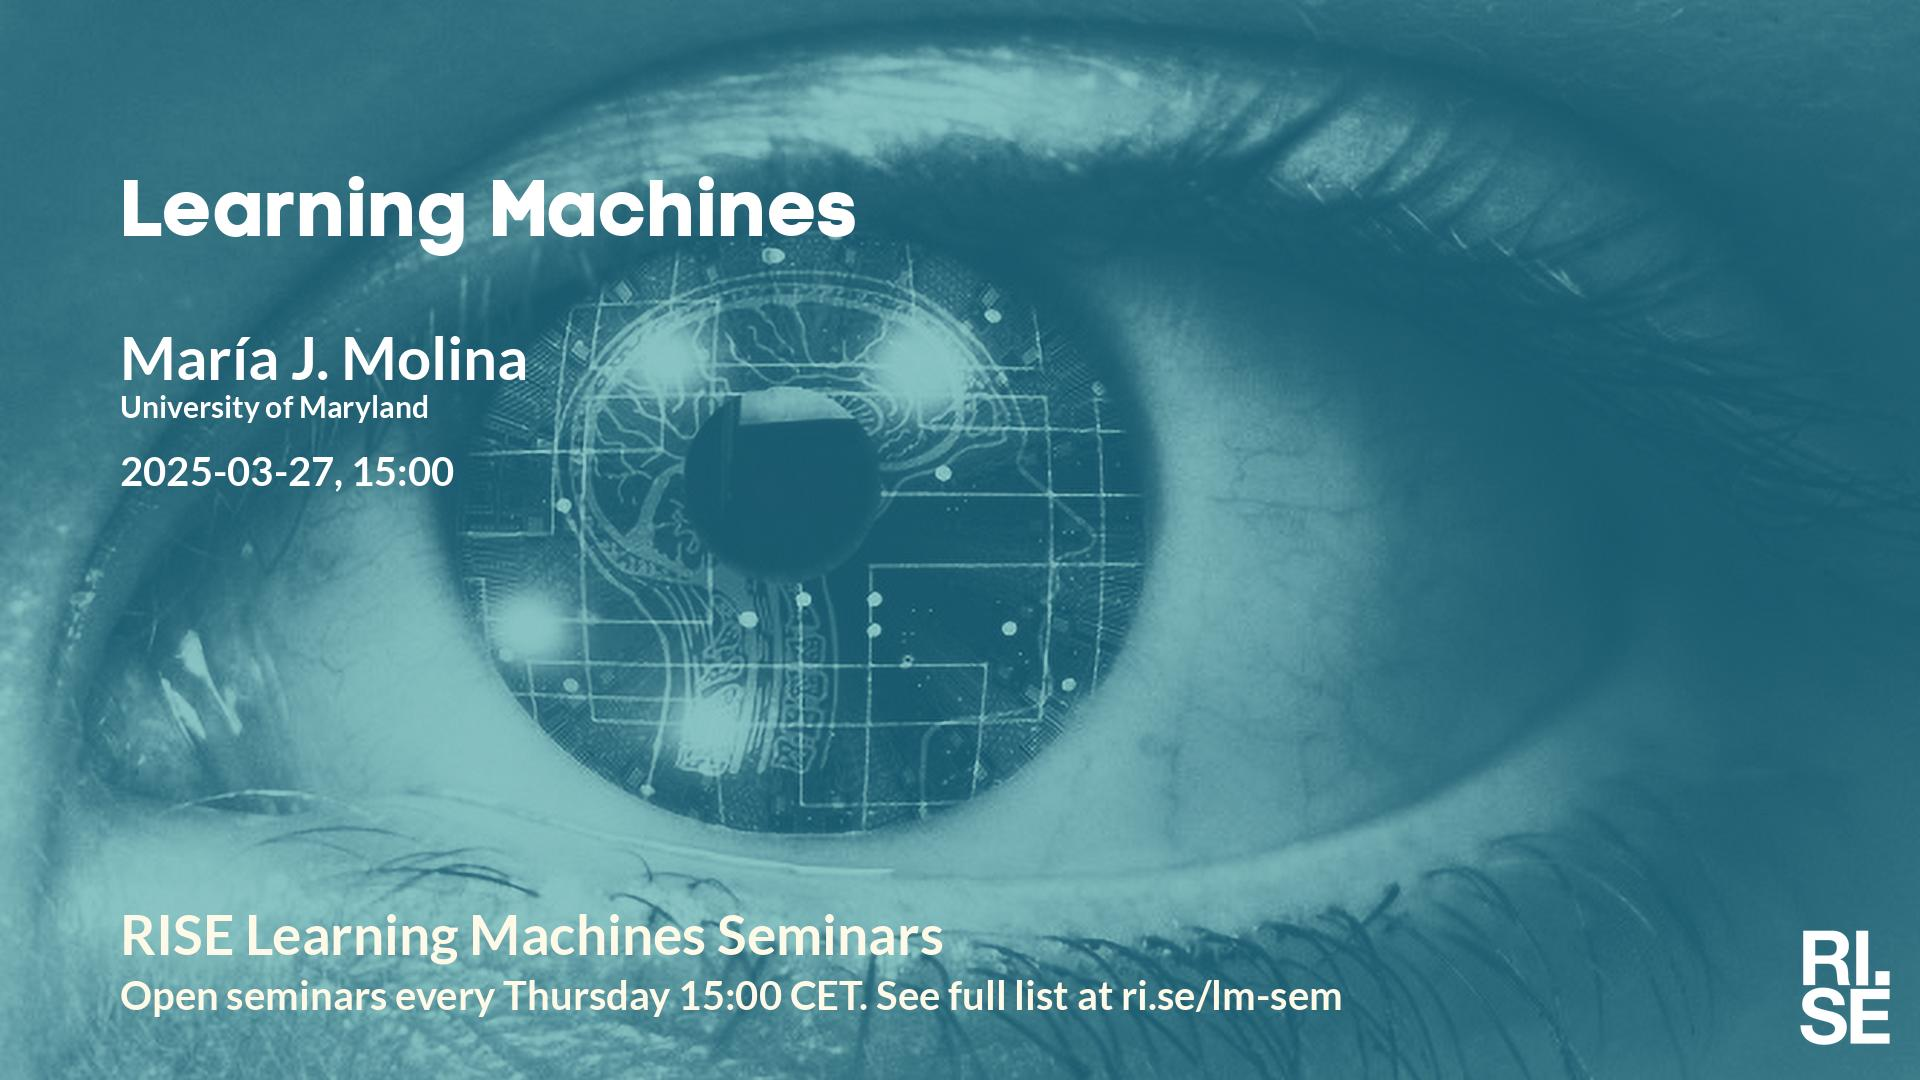
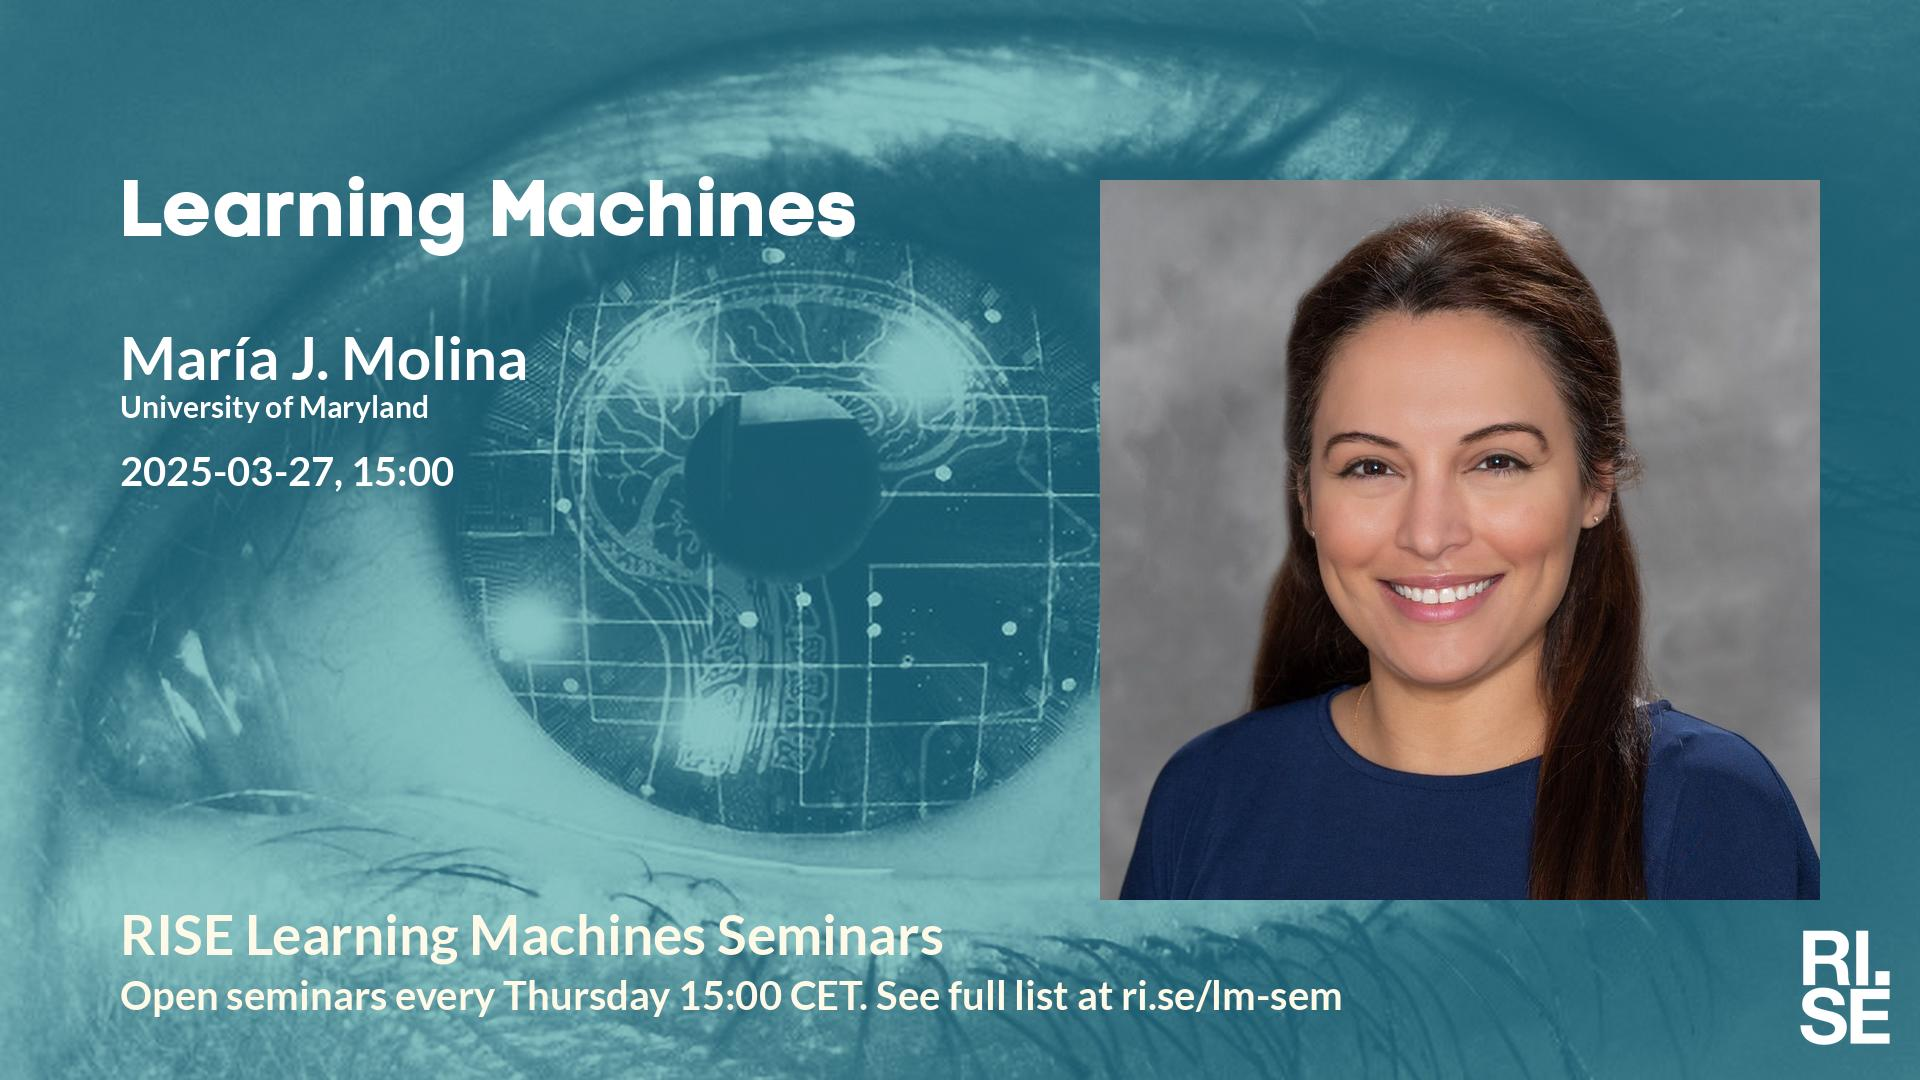
Updated plan on web site.

Changed region(s): [[0.5625, 0.1528, 0.9688, 0.8556]]

diff --git a/lm/index.md b/lm/index.md
@@ -24,7 +24,7 @@ table {border-collapse: collapse;}
 | <span style="color:grey"> 2025-03-06 </span> | <span style="color:grey"> Atakan A. ? </span> | <span style="color:grey">  </span> | <span style="color:grey">  </span> | <span style="color:grey">  </span> | <span style="color:grey">  </span> | <span style="color:grey"> S~~TABP~~ </span> |
 | <span style="color:grey"> 2025-03-13 </span> | <span style="color:grey"> Sherrie W. ? </span> | <span style="color:grey">  </span> | <span style="color:grey">  </span> | <span style="color:grey">  </span> | <span style="color:grey">  </span> | <span style="color:grey"> S~~TA~~B~~P~~ </span> |
 | <span style="color:grey"> 2025-03-20 </span> | <span style="color:grey"> Sasha L. ? </span> | <span style="color:grey">  </span> | <span style="color:grey">  </span> | <span style="color:grey">  </span> | <span style="color:grey">  </span> | <span style="color:grey"> S~~TABP~~ </span> |
-|  2025-03-27  |  [María J. Molina, University of Maryland](2025-03-27.md)  |    |  [social media ](social-media-maria-j.-molina.jpg)  |  [meeting backdrop ](meeting-backdrop-maria-j.-molina.jpg)  |  [youtube thumbnail ](youtube-thumbnail-maria-j.-molina.jpg)  |  S~~TABP~~  |
+|  2025-03-27  |  [María J. Molina, University of Maryland](2025-03-27.md)  |  [photo](photo-maria-j.-molina.jpg)  |  [social media ](social-media-maria-j.-molina.jpg)  |  [meeting backdrop ](meeting-backdrop-maria-j.-molina.jpg)  |  [youtube thumbnail ](youtube-thumbnail-maria-j.-molina.jpg)  |  S~~TAB~~P  |
 | <span style="color:purple"> 2025-04-03 </span> | <span style="color:purple"> *Up for grabs!!!* </span> | <span style="color:purple">  </span> | <span style="color:purple">  </span> | <span style="color:purple">  </span> | <span style="color:purple">  </span> | <span style="color:purple"> ~~STABP~~ </span> |
 | <span style="color:purple"> 2025-04-10 </span> | <span style="color:purple"> *Up for grabs!!!* </span> | <span style="color:purple">  </span> | <span style="color:purple">  </span> | <span style="color:purple">  </span> | <span style="color:purple">  </span> | <span style="color:purple"> ~~STABP~~ </span> |
 | <span style="color:red"> 2025-04-17 </span> | <span style="color:red"> Holy Thursday </span> | <span style="color:red">  </span> | <span style="color:red">  </span> | <span style="color:red">  </span> | <span style="color:red">  </span> | <span style="color:red"> CANCELLED </span> |
